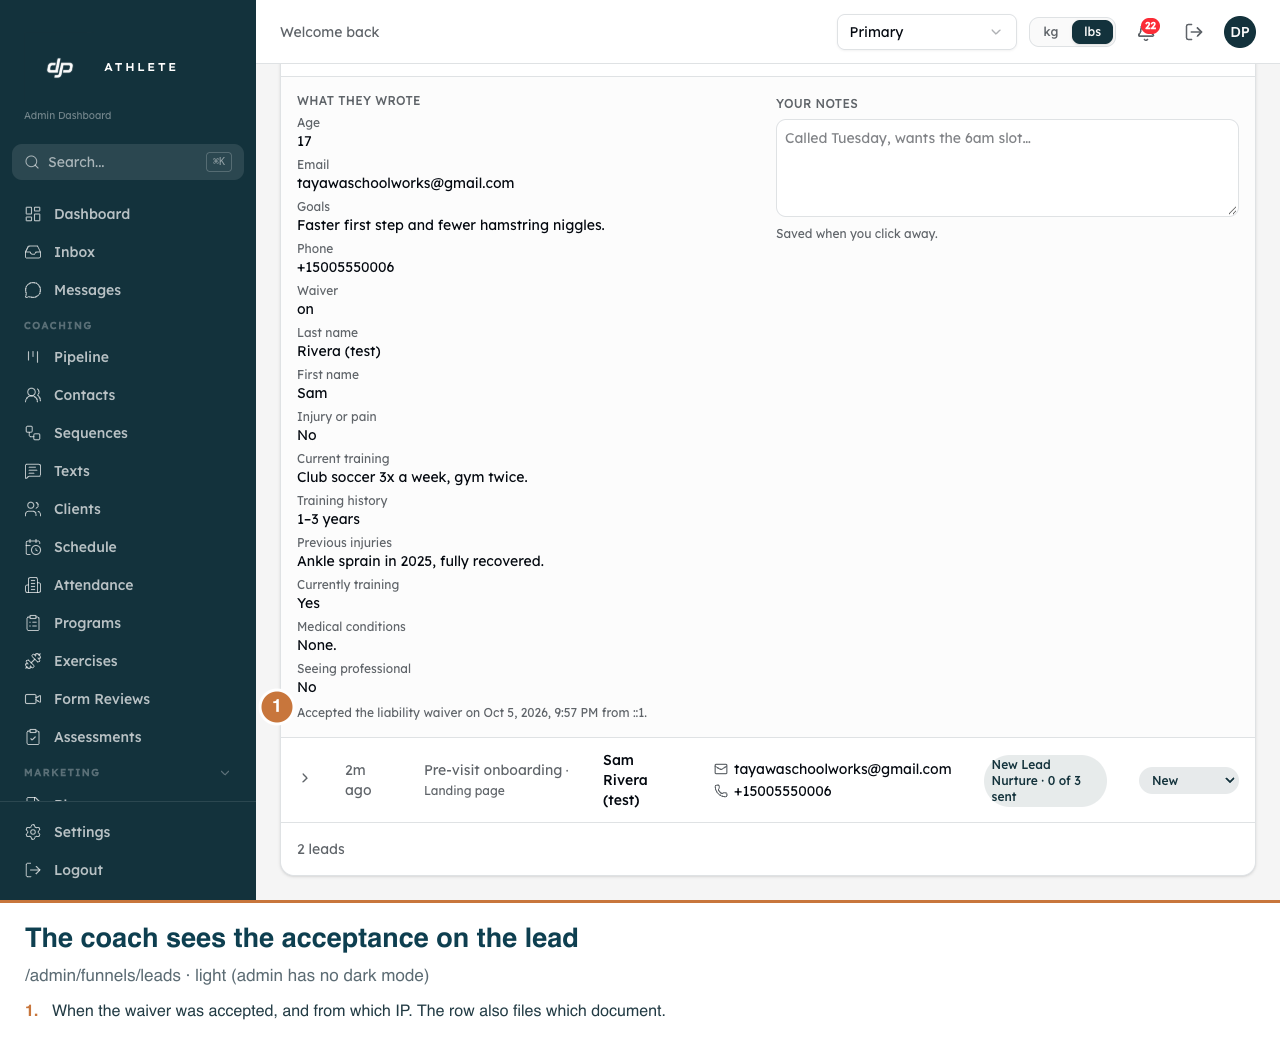
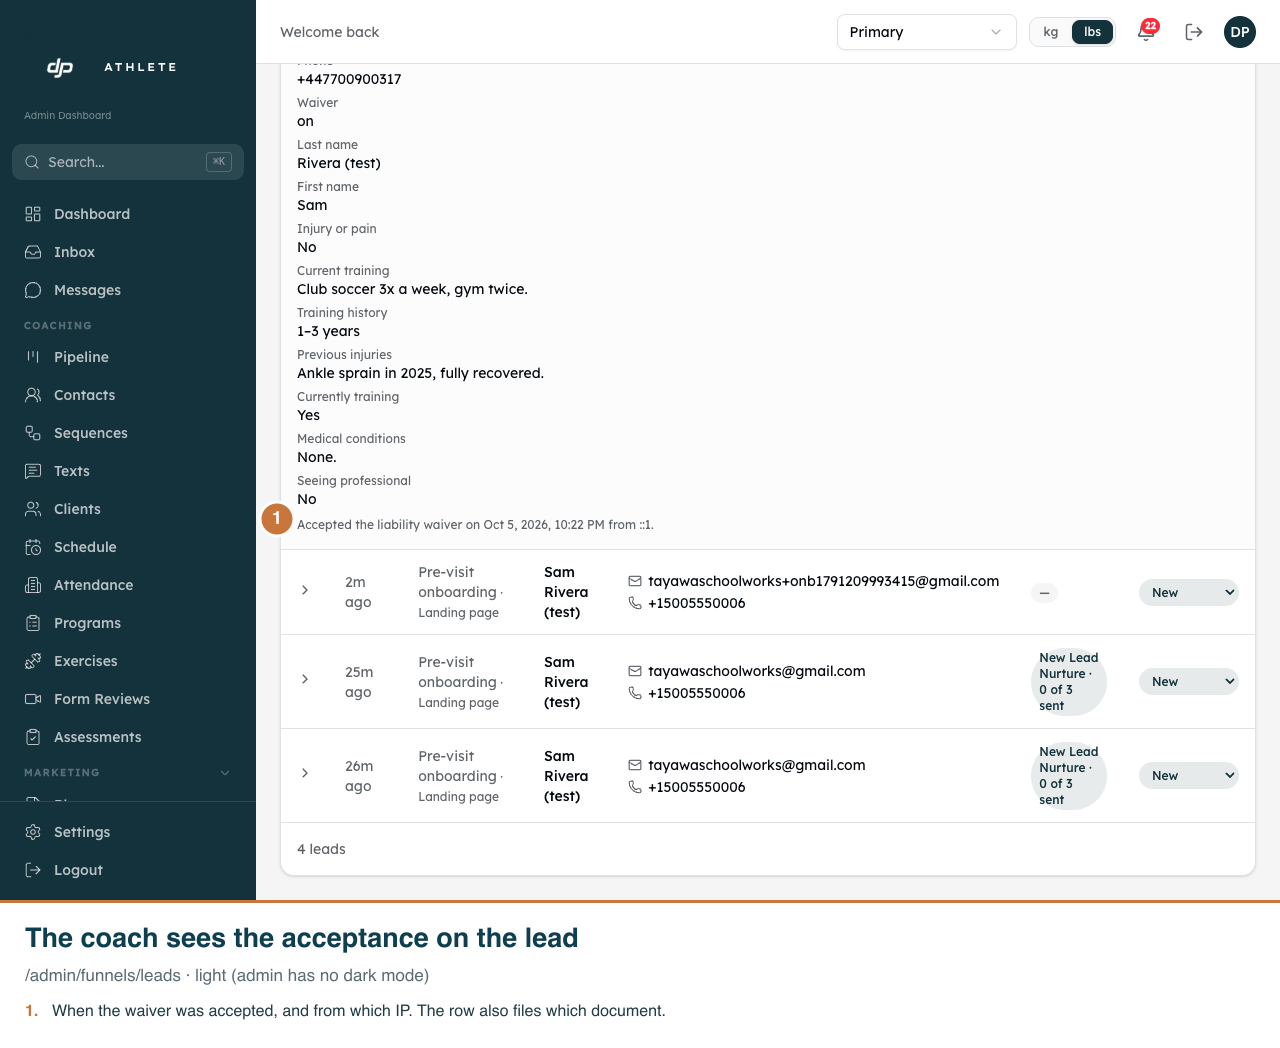
feat(funnels): a form can file its people without starting the new-lead follow-up
The pre-visit onboarding form is filled in by clients who are already booked,
and new_lead_nurture triggers on every funnel form (trigger_filter {}), so they
were enrolled in the new-lead nurture.

A form now carries an optional `skipFollowUp` ("Existing clients: don't start
lead follow-up" in the builder). When it is on, the submission still becomes a
contact and a timeline event, but through upsertContactIdentity +
recordEventForExistingContact instead of recordContactEvent, the only caller of
enrollIfTriggered. Same structural non-enrolling path as the GHL import and the
hand-made pipeline card; absent, every form behaves as before.

The onboarding page turns it on. Verified on the dev clone: a fresh visitor is
filed as a new contact with zero sequence runs.

diff --git a/scripts/capture-funnel-pages.ts b/scripts/capture-funnel-pages.ts
@@ -22,7 +22,13 @@ type Marker = { x: number; y: number; caption: string }
 const APP = process.env.APP ?? "http://localhost:3050"
 const OUT = "screenshots/funnel-pages"
 const CLONE_REF = "anjvztjiokcgiyhobknq"
-const TEST_INBOX = "tayawaschoolworks@gmail.com"
+// A fresh plus-address per run, so "no sequence run for this contact" below
+// cannot be satisfied by a run an earlier capture left behind.
+const TEST_INBOX = `tayawaschoolworks+onb${Date.now()}@gmail.com`
+// And a fresh phone: contacts match on phone too, and a reused test number
+// joins an old contact whose old nurture run would hide a new one. Ofcom's
+// drama range (07700 900000-900999) is never assigned. No SMS opt-in is ticked.
+const TEST_PHONE = `+447700900${String(Date.now()).slice(-3)}`
 const DESKTOP = { viewport: { width: 1280, height: 900 }, deviceScaleFactor: 1 }
 const MOBILE = { viewport: { width: 390, height: 844 }, deviceScaleFactor: 2, isMobile: true, hasTouch: true }
 const shots: { file: string; text: string }[] = []
@@ -145,7 +151,7 @@ async function main() {
     const pick = (name: string, value: string) => v.locator(`[data-djp-field="${name}"] select`).selectOption(value)
     await fill("first_name", "Sam")
     await fill("last_name", "Rivera (test)")
-    await fill("phone", "+15005550006")
+    await fill("phone", TEST_PHONE)
     await fill("email", TEST_INBOX)
     await fill("age", "17")
     await pick("currently_training", "Yes")
@@ -179,6 +185,18 @@ async function main() {
     const { data: activeDoc } = await db.from("legal_documents").select("id, version").eq("document_type", "liability_waiver").eq("is_active", true).single()
     console.log(`  row ${row.id}: accepted ${row.waiver_accepted_at}, doc ${row.waiver_document_id} (active ${activeDoc?.id} v${activeDoc?.version}), ip ${row.ip_address}`)
     if (row.waiver_document_id !== (activeDoc?.id ?? null)) throw new Error("the filed document is not the active one")
+
+    // skipFollowUp: the person is filed as a contact, and NO sequence run starts.
+    // The presence control is the contact itself: zero runs for a contact that
+    // does not exist would prove nothing.
+    await new Promise((resolve) => setTimeout(resolve, 3000)) // capture runs after the response
+    const { data: contact } = await db.from("contacts").select("id, created_at").ilike("email", TEST_INBOX).maybeSingle()
+    if (!contact || Date.parse(contact.created_at) < Date.parse(startedAt) - 5000) {
+      throw new Error(`NO NEW CONTACT filed for ${TEST_INBOX}`)
+    }
+    const { count: runs } = await db.from("sequence_runs").select("id", { count: "exact", head: true }).eq("contact_id", contact.id)
+    console.log(`  contact ${contact.id}: ${runs} sequence run(s)`)
+    if (runs !== 0) throw new Error(`the onboarding form started ${runs} sequence run(s)`)
 
     const l = await desk.newPage()
     await l.goto(`${APP}/admin/funnels/leads?funnelId=${onboarding.id}`, { waitUntil: "networkidle", timeout: 180_000 })

diff --git a/__tests__/api/funnel-submit-contact.test.ts b/__tests__/api/funnel-submit-contact.test.ts
@@ -2,7 +2,9 @@
 import { describe, it, expect, vi } from "vitest"
 
 const recordContactEvent = vi.fn(async () => ({ contactId: "c1", created: true, merged: false }))
-vi.mock("@/lib/db/contacts", () => ({ recordContactEvent }))
+const upsertContactIdentity = vi.fn(async () => ({ contactId: "c2", created: false, merged: false, identifierConflicts: [] }))
+const recordEventForExistingContact = vi.fn(async () => undefined)
+vi.mock("@/lib/db/contacts", () => ({ recordContactEvent, upsertContactIdentity, recordEventForExistingContact }))
 
 describe("funnel submit → contact spine", () => {
   it("passes the submitted identifiers and the attribution session through", async () => {
@@ -92,6 +94,33 @@ describe("funnel submit → contact spine", () => {
       businessId: "platform-biz",
     })
     expect(recordContactEvent).toHaveBeenCalledWith(expect.objectContaining({ metadata: { sport: "lacrosse" } }))
+  })
+
+  it("files a form with lead follow-up OFF through the non-enrolling pair, never recordContactEvent", async () => {
+    // The pre-visit onboarding form: the person is already a booked client, so
+    // the "new lead" sequence must not start. Structural, like the GHL import
+    // and the hand-made card: recordContactEvent is the ONLY caller of
+    // enrollIfTriggered, so not calling it cannot enrol anybody.
+    recordContactEvent.mockClear()
+    const { captureContactFromSubmission } = await import("@/lib/funnels/capture-contact")
+    const id = await captureContactFromSubmission({
+      name: "Sam",
+      email: "sam@example.com",
+      phone: "+15005550006",
+      attributionSessionId: "sess-9",
+      payload: { goals: "Throw harder" },
+      businessId: "platform-biz",
+      startFollowUp: false,
+    })
+    expect(id).toBe("c2")
+    expect(recordContactEvent).not.toHaveBeenCalled()
+    expect(upsertContactIdentity).toHaveBeenCalledWith(
+      expect.objectContaining({ email: "sam@example.com", phone: "+15005550006", name: "Sam", businessId: "platform-biz" }),
+    )
+    // Still on the contact's timeline as how they arrived.
+    expect(recordEventForExistingContact).toHaveBeenCalledWith(
+      expect.objectContaining({ contactId: "c2", source: "funnel_form", metadata: { goals: "Throw harder" } }),
+    )
   })
 
   it("never throws when the contact write fails — the submission still stands", async () => {

diff --git a/lib/funnels/capture-contact.ts b/lib/funnels/capture-contact.ts
@@ -11,7 +11,27 @@
 // later stage. Writing a consent row now would mean inventing the wording it
 // claims to quote.
 
-import { recordContactEvent } from "@/lib/db/contacts"
+import { recordContactEvent, recordEventForExistingContact, upsertContactIdentity } from "@/lib/db/contacts"
+
+/**
+ * The same contact and timeline row as `recordContactEvent`, WITHOUT its
+ * enrolment. `recordContactEvent` is the only caller of `enrollIfTriggered`
+ * (enroll-call-site-inventory.test.ts), so a form that must not start a
+ * sequence takes this path rather than passing it a flag: the GHL import and
+ * the hand-made pipeline card are non-enrolling the same way.
+ */
+async function recordContactWithoutFollowUp(input: Parameters<typeof recordContactEvent>[0]): Promise<{ contactId: string }> {
+  const { contactId } = await upsertContactIdentity({
+    email: input.email,
+    phone: input.phone,
+    name: input.name,
+    attributionSessionId: input.attributionSessionId,
+    timezone: input.timezone,
+    businessId: input.businessId,
+  })
+  await recordEventForExistingContact({ contactId, businessId: input.businessId, source: input.source, metadata: input.metadata })
+  return { contactId }
+}
 
 export async function captureContactFromSubmission(input: {
   name: string | null
@@ -41,10 +61,16 @@ export async function captureContactFromSubmission(input: {
    * a collision that has not happened yet rather than changing one that has.
    */
   metadata?: Record<string, unknown>
+  /**
+   * `false` for a form the owner marked "existing clients" (`skipFollowUp`):
+   * the contact is filed, no new-lead sequence starts. Omitted means it starts.
+   */
+  startFollowUp?: boolean
 }): Promise<string | null> {
   if (!input.email && !input.phone) return null
+  const record = input.startFollowUp === false ? recordContactWithoutFollowUp : recordContactEvent
   try {
-    const { contactId } = await recordContactEvent({
+    const { contactId } = await record({
       email: input.email,
       phone: input.phone,
       name: input.name,

diff --git a/__tests__/api/funnels/submit-waiver.test.ts b/__tests__/api/funnels/submit-waiver.test.ts
@@ -34,7 +34,10 @@ vi.mock("@/lib/db/funnels", () => ({
 vi.mock("@/lib/db/legal-documents", () => ({
   getActiveDocument: (...a: unknown[]) => getActiveDocument(...a),
 }))
-vi.mock("@/lib/funnels/capture-contact", () => ({ captureContactFromSubmission: vi.fn(async () => null) }))
+const captureContactFromSubmission = vi.fn(async () => null)
+vi.mock("@/lib/funnels/capture-contact", () => ({
+  captureContactFromSubmission: (...a: unknown[]) => captureContactFromSubmission(...(a as [])),
+}))
 vi.mock("@/lib/db/contact-consents", () => ({ recordConsent: vi.fn() }))
 vi.mock("@/lib/db/businesses", () => ({
   getBusinessSettings: vi.fn(async () => ({ business_id: "biz-1", display_name: "Acme Fitness" })),
@@ -121,6 +124,18 @@ describe("POST /api/funnels/submit — waiver on a plain form", () => {
     const row = createSubmission.mock.calls[0][1]
     expect(row.waiver_document_id).toBeNull()
     expect(typeof row.waiver_accepted_at).toBe("string")
+  })
+
+  it("starts no lead follow-up for a form that says so, and does for one that does not", async () => {
+    // MUTANT KILLED: ignoring the form's `skipFollowUp`, which puts a booked
+    // client filling in the pre-visit form into the new-lead nurture.
+    getPublishedFormConfig.mockResolvedValue({ formKey: "pre-visit", successMode: "message", skipFollowUp: true, fields: WAIVER_FORM })
+    await POST(request({ first_name: "Sam", waiver: "on" }))
+    expect(captureContactFromSubmission).toHaveBeenLastCalledWith(expect.objectContaining({ startFollowUp: false }))
+
+    getPublishedFormConfig.mockResolvedValue({ formKey: "pre-visit", successMode: "message", fields: WAIVER_FORM })
+    await POST(request({ first_name: "Sam", waiver: "on" }))
+    expect(captureContactFromSubmission).toHaveBeenLastCalledWith(expect.objectContaining({ startFollowUp: true }))
   })
 
   it("reads no legal document, and writes no waiver columns, for a form without a waiver", async () => {

diff --git a/screenshots/funnel-pages/index.html b/screenshots/funnel-pages/index.html
@@ -3,7 +3,7 @@
 <style>body{font:16px/1.5 system-ui,sans-serif;max-width:1320px;margin:0 auto;padding:24px;background:#f6f6f4;color:#13323c}
 figure{margin:0 0 40px}figcaption{margin:0 0 10px}img{max-width:100%;border:1px solid #ddd;border-radius:8px}</style>
 <h1>Performance Gap Map landing page, and the pre-visit onboarding form</h1>
-<p>Real app on the dev clone. Shots 1-4 and 7 are /preview test runs (nothing saved). Shots 5-6 are a real submission on the published dev page, read back from the database: waiver accepted 2026-10-05T13:57:30.773+00:00, document c334c11c-f76d-4a23-ac7d-fc851e2fc7cb. Funnel pages and the admin have no dark mode.</p>
+<p>Real app on the dev clone. Shots 1-4 and 7 are /preview test runs (nothing saved). Shots 5-6 are a real submission on the published dev page, read back from the database: waiver accepted 2026-10-05T14:22:07.758+00:00, document c334c11c-f76d-4a23-ac7d-fc851e2fc7cb. Funnel pages and the admin have no dark mode.</p>
 <figure><figcaption><b>1.</b> The visitor lands on the Performance Gap Map page; one button starts the quiz.</figcaption><img src="01-gap-map-hero.png" alt=""></figure>
 <figure><figcaption><b>2.</b> Lower down, the visitor finds their situation, then the four ideas behind the readout.</figcaption><img src="02-gap-map-who-and-pillars.png" alt=""></figure>
 <figure><figcaption><b>3.</b> Before a first session, the client fills in this form.</figcaption><img src="03-onboarding-form.png" alt=""></figure>

diff --git a/__tests__/lib/funnels/islands.test.ts b/__tests__/lib/funnels/islands.test.ts
@@ -234,6 +234,16 @@ describe("the field-role contract", () => {
     expect(formIslandSchema.safeParse(optin({ type: "text", required: true })).success).toBe(false)
   })
 
+  it("keeps a form's 'no lead follow-up' switch, and the builder offers it", () => {
+    // MUTANT KILLED: leaving `skipFollowUp` out of the schema. Zod strips an
+    // unknown key, so the published config would never carry it and the
+    // pre-visit form's clients would be enrolled in the new-lead nurture.
+    const form = { formKey: "pre-visit", fields: [{ name: "email", label: "Email", type: "email" }], skipFollowUp: true }
+    const parsed = formIslandSchema.safeParse(form)
+    expect(parsed.success && parsed.data.skipFollowUp).toBe(true)
+    expect(ISLAND_TRAITS.form.find((t) => t.name === "skipFollowUp")?.type).toBe("checkbox")
+  })
+
   it("keeps unroled fields — the owner's own questions survive", () => {
     const form = checkoutForm()
     form.fields.push({ name: "level", label: "Current level", type: "select", options: ["New", "Club"] })

diff --git a/scripts/lib/onboarding-doc.ts b/scripts/lib/onboarding-doc.ts
@@ -33,6 +33,8 @@ export function buildOnboardingDoc(input: { businessName: string }): SectionDoc 
           heading: "Before your first session",
           sub: "Please complete this short form before your first in-person session. It helps me understand your background, injury history and goals, so we can make the most of our time together.",
           formKey: "pre-visit",
+          // Booked clients, not leads: file the contact, start no new-lead nurture.
+          skipFollowUp: true,
           submitLabel: "Submit & confirm pre-visit details",
           successMode: "message",
           successMessage: "Thank you. Your details are in, and I'll read them before your first session.",

diff --git a/lib/funnels/islands.ts b/lib/funnels/islands.ts
@@ -189,6 +189,13 @@ export const formIslandSchema = z
     leadMagnetId: z.string().uuid().nullable().optional(),
     consentText: z.string().max(300).optional(),
     /**
+     * For a form the business's EXISTING clients fill in (the pre-visit
+     * onboarding form): the person is still filed as a contact, but no
+     * new-lead sequence starts. Absent means the follow-up starts, which is
+     * every form before this key existed.
+     */
+    skipFollowUp: z.boolean().optional(),
+    /**
      * The camp or clinic this form sells, when `successMode` is "checkout".
      *
      * A uuid the OWNER supplies through `island-fields.ts`, exactly as the event

diff --git a/lib/funnels/island-fields.ts b/lib/funnels/island-fields.ts
@@ -49,6 +49,7 @@ export const ISLAND_TRAITS: Record<IslandName, IslandTrait[]> = {
     { name: "successMessage", label: "Success message", type: "text" },
     { name: "redirectUrl", label: "Redirect URL (if redirecting)", type: "text" },
     { name: "consentText", label: "Consent text (optional)", type: "text" },
+    { name: "skipFollowUp", label: "Existing clients: don't start lead follow-up", type: "checkbox" },
     { name: "fields", label: "Fields (JSON)", type: "json" },
     // The camp a checkout form sells. A uuid the OWNER supplies here, never
     // the model — UUID_FIELD_PATHS tells the prompt to omit it, and publishGate

diff --git a/app/api/funnels/submit/route.ts b/app/api/funnels/submit/route.ts
@@ -243,6 +243,9 @@ export async function POST(request: Request) {
     payload,
     businessId,
     timezone: parsedBody.timezone ?? null,
+    // The owner's "existing clients" switch on the PUBLISHED form (e.g. the
+    // pre-visit onboarding form): file the contact, start no new-lead sequence.
+    startFollowUp: config.skipFollowUp !== true,
     // G10. What the FORM declares about who filled it in, so a sequence can
     // write to a parent differently from an athlete. Derived server-side
     // from the published field list (`fields`, re-read from the published

diff --git a/__tests__/scripts/funnel-page-docs.test.ts b/__tests__/scripts/funnel-page-docs.test.ts
@@ -58,6 +58,10 @@ describe("buildOnboardingDoc", () => {
     expect(fields.map((f) => f.name)).toEqual(expect.arrayContaining(["first_name", "last_name"]))
   })
 
+  it("starts no new-lead follow-up: the people filling it in are already booked clients", () => {
+    expect((form.props as { skipFollowUp?: boolean }).skipFollowUp).toBe(true)
+  })
+
   it("keeps GHL's dropdown choices", () => {
     expect(fields.find((f) => f.name === "training_history")?.options).toEqual([
       "New / just starting",

diff --git a/__tests__/components/admin/funnel-island-traits.test.ts b/__tests__/components/admin/funnel-island-traits.test.ts
@@ -34,6 +34,7 @@ describe("island traits cover their island's settings", () => {
       successMessage: "You're in.",
       redirectUrl: "/go/thanks",
       consentText: "We'll email you the guide.",
+      skipFollowUp: false,
       eventId: "44444444-4444-4444-8444-444444444444",
     },
     checkout: {
